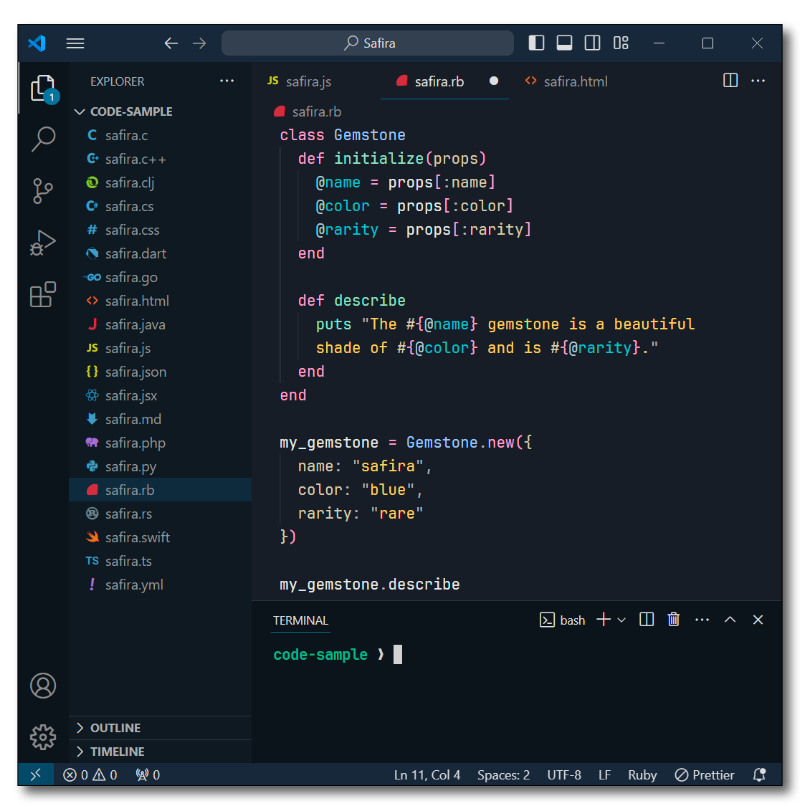
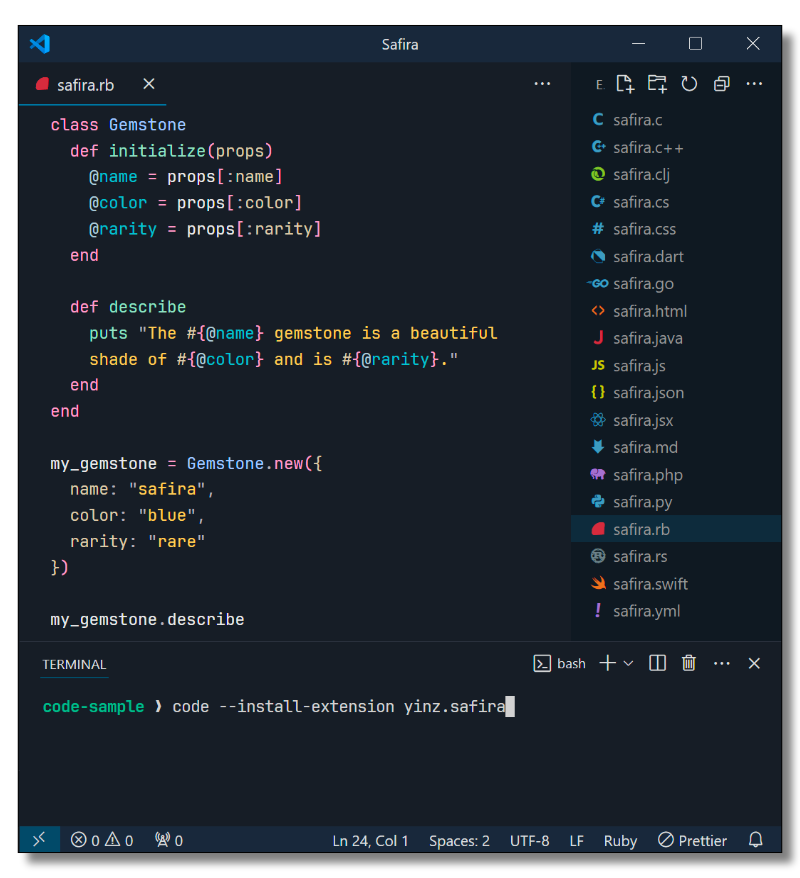
first release

diff --git a/README.md b/README.md
@@ -18,7 +18,7 @@ A minimalistic, stylish dark blue theme with crisp syntax.
 <img alt="Safira Typescript" src="https://imgur.com/zLoILX9.png" />
 <img alt="Safira Javascript" src="https://imgur.com/gba7dNp.png" />
 <img alt="Safira HTML Code" src="https://imgur.com/guwpzG2.png" />
-<img alt="Safira Ruby Code" src="https://imgur.com/8ZT6hnH.png" />
+<img alt="Safira Ruby Code" src="https://imgur.com/ZwxN0Ot.png" />
 </div>
 
 Font used [JetBrains Mono](https://www.jetbrains.com/lp/mono/)

diff --git a/CHANGELOG.md b/CHANGELOG.md
@@ -1,3 +1,9 @@
+## 0.0.4 Color update
+
+`2024-04-07`
+
+The terminal color was changed to better match the rest of the theme.
+
 ## 0.0.3 Readme Update
 
 `2024-04-06`
